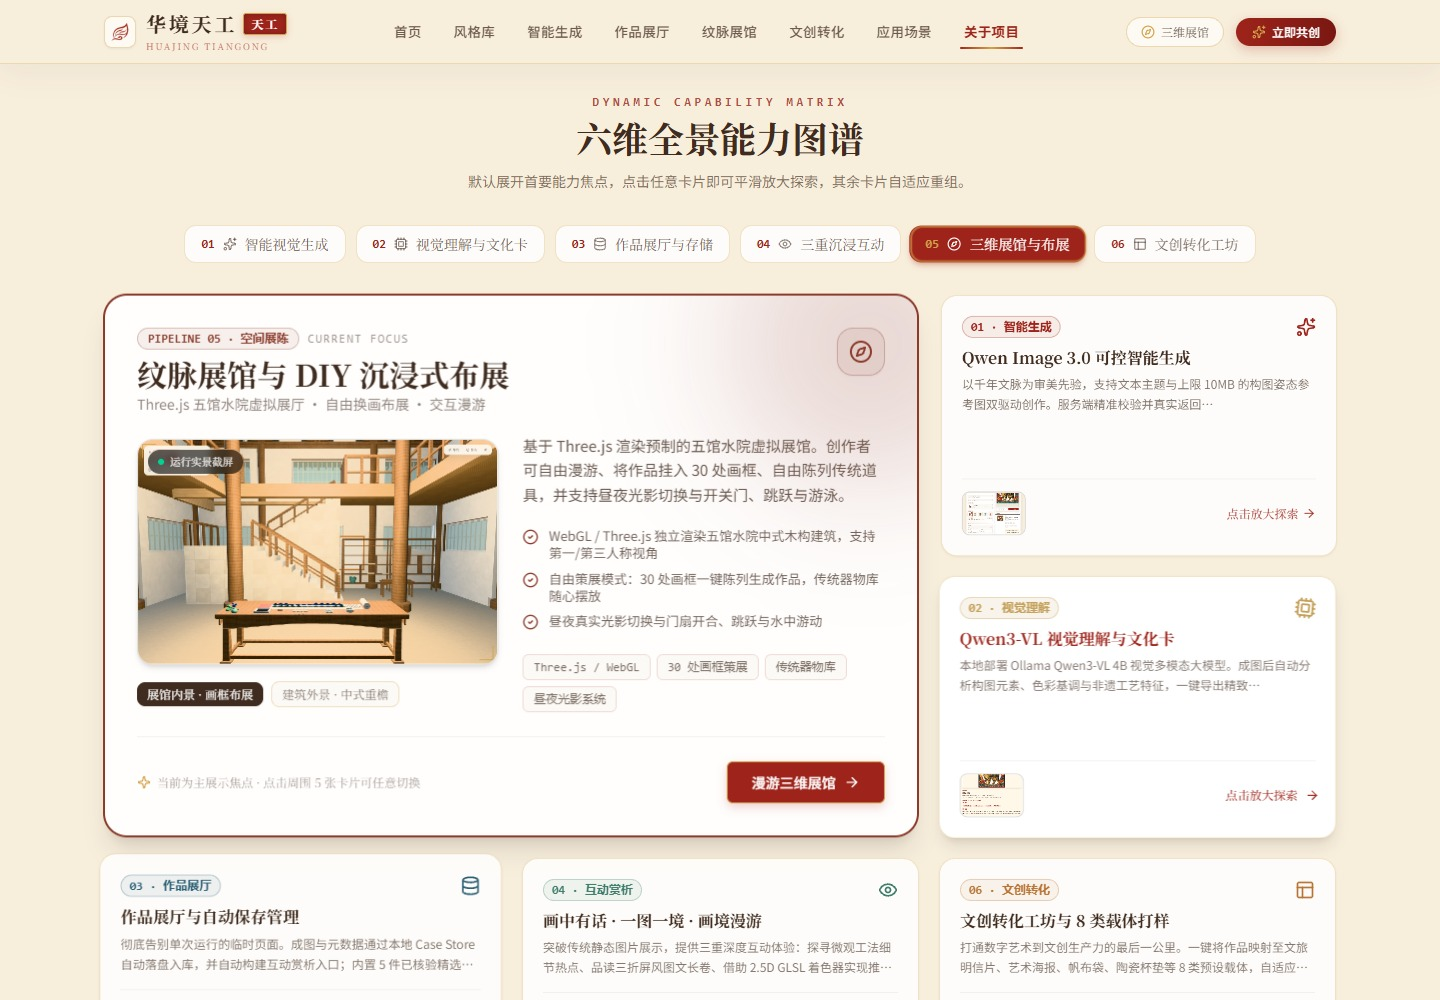
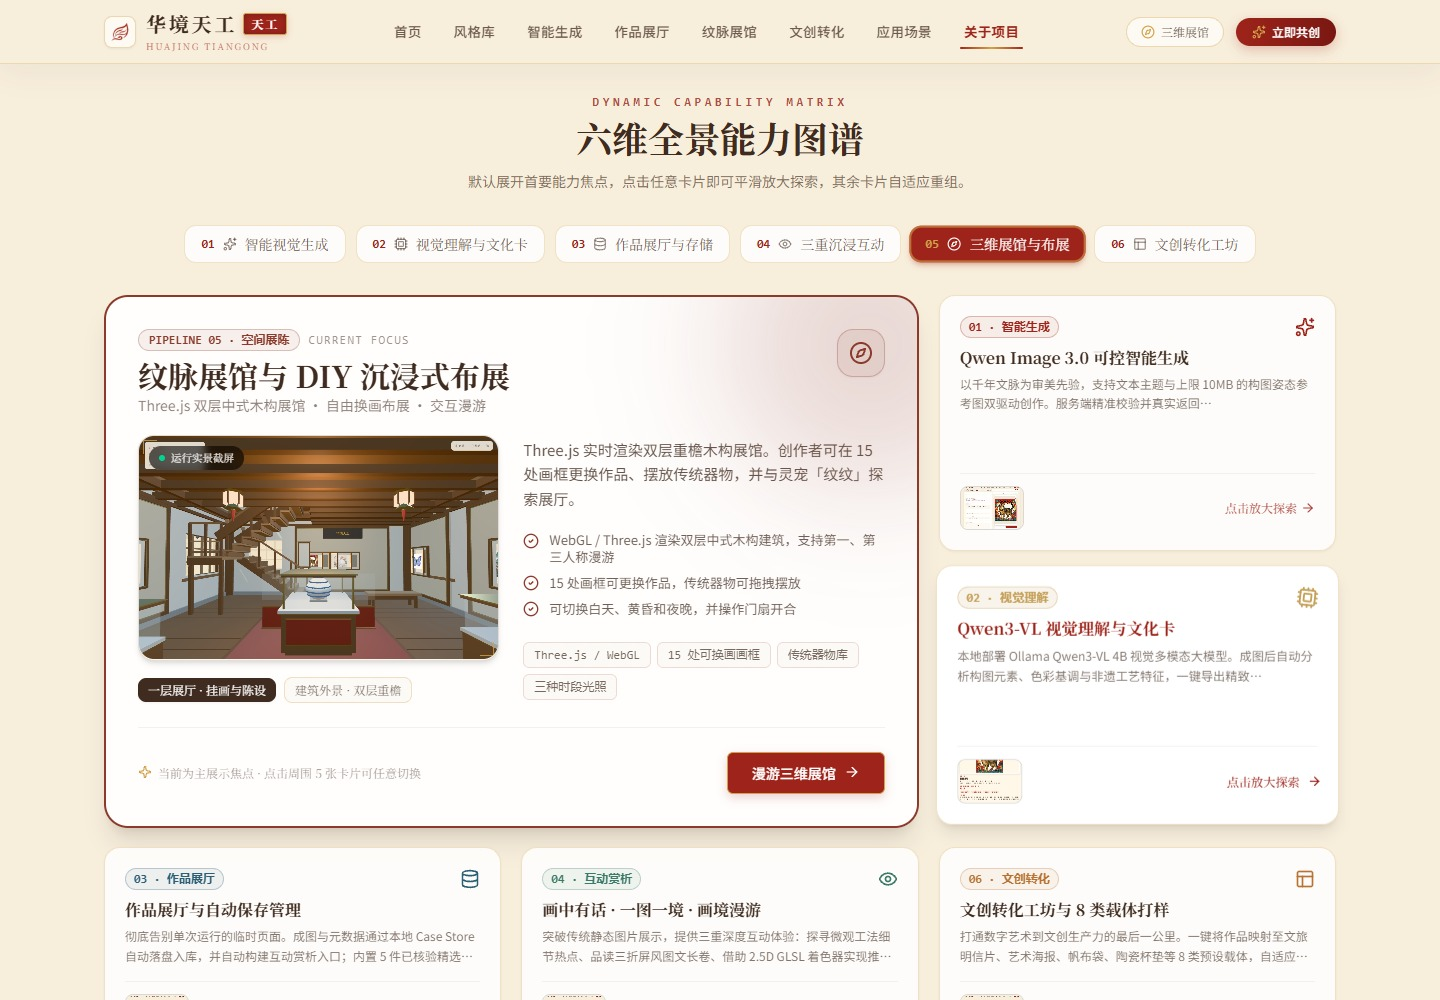
Align gallery previews and descriptions with competition v5

diff --git a/frontend/src/pages/Home.tsx b/frontend/src/pages/Home.tsx
@@ -75,8 +75,8 @@ const PLATFORM_PILLARS = [
   },
   {
     icon: Boxes,
-    title: '五馆水院三维展馆',
-    desc: 'Three.js 渲染古建水院空间，支持 30 处自定义策展换画与器物陈列。',
+    title: '双层中式纹脉展馆',
+    desc: 'Three.js 渲染双层重檐木构展馆，支持 15 处画框换画与传统器物陈设。',
     tag: '虚拟空间',
     to: '/heritage-gallery',
   },
@@ -411,14 +411,14 @@ export default function Home() {
             >
               <img
                 src={uiPreviews.heritageExterior}
-                alt="纹脉展馆建筑外观"
+                alt="纹脉展馆双层重檐木构建筑的白天外景"
                 className="w-full h-full object-cover transition-transform duration-700 group-hover:scale-[1.03]"
                 loading="lazy"
               />
               <div className="absolute inset-0 bg-gradient-to-t from-black/65 via-transparent to-transparent pointer-events-none" />
               <div className="absolute bottom-4 left-4 right-4 flex items-center justify-between text-white">
                 <span className="text-xs font-serif tracking-widest bg-black/45 backdrop-blur-md px-3 py-1 rounded border border-white/20">
-                  实景渲染 · 纹脉数字化艺术展馆
+                  界面实拍 · 纹脉展馆
                 </span>
                 <span className="text-xs opacity-90 font-mono hidden sm:inline">
                   Three.js 沉浸式三维漫游空间
@@ -442,17 +442,12 @@ export default function Home() {
                   whileHover={{ scale: 1.12, rotate: 2 }}
                   className="w-full h-full relative"
                 >
-                  <picture>
-                    <source
-                      type="image/webp"
-                      srcSet={import.meta.env.BASE_URL + "visuals/vnext/ui-img-02-heritage-pavilion.webp"}
-                    />
-                    <img
-                      src={import.meta.env.BASE_URL + "visuals/vnext/ui-img-02-heritage-pavilion.png"}
-                      alt="三维虚实交融玉璧楼阁展馆印徽"
-                      className="w-full h-full object-contain drop-shadow-[0_12px_28px_rgba(66,108,98,0.35)]"
-                    />
-                  </picture>
+                  <img
+                    src={uiPreviews.heritageExterior}
+                    alt="双层纹脉展馆入口预览"
+                    className="w-full h-full rounded-xl border border-gold/30 object-cover drop-shadow-[0_12px_28px_rgba(66,108,98,0.35)]"
+                    loading="lazy"
+                  />
                   <div className="absolute -bottom-1 left-1/2 -translate-x-1/2 bg-white/95 border border-emerald-700/30 shadow-xs px-2 py-0.5 rounded-full text-[9px] font-serif text-emerald-800 opacity-0 group-hover:opacity-100 transition-opacity whitespace-nowrap">
                     入馆漫游 →
                   </div>
@@ -472,17 +467,17 @@ export default function Home() {
               </div>
             </div>
             <p className="text-sm md:text-base text-ink/75 leading-relaxed mb-6 font-sans">
-              纹脉展馆是{projectBrand.name}的沉浸式三维文化展示空间。漫游水院中式古建、近距离赏析传统文化主题作品，并通过 30 处画框自由换画、器物陈设打造个人专属策展空间。
+              纹脉展馆是{projectBrand.name}的沉浸式三维文化展示空间。双层重檐木构建筑内设 15 处可换画画框，可陈设传统器物，也可与灵宠「纹纹」一起探索展厅。
             </p>
 
             <div className="grid grid-cols-2 gap-3 mb-8 text-xs text-ink/80 font-serif">
               <div className="flex items-center gap-2 p-2.5 rounded-lg bg-white/80 border border-gold/30">
                 <span className="w-1.5 h-1.5 rounded-full bg-gold" />
-                五馆水院古建格局
+                双层重檐中式展馆
               </div>
               <div className="flex items-center gap-2 p-2.5 rounded-lg bg-white/80 border border-gold/30">
                 <span className="w-1.5 h-1.5 rounded-full bg-gold" />
-                30 处自定义策展画框
+                15 处可换画画框
               </div>
               <div className="flex items-center gap-2 p-2.5 rounded-lg bg-white/80 border border-gold/30">
                 <span className="w-1.5 h-1.5 rounded-full bg-gold" />
@@ -490,7 +485,7 @@ export default function Home() {
               </div>
               <div className="flex items-center gap-2 p-2.5 rounded-lg bg-white/80 border border-gold/30">
                 <span className="w-1.5 h-1.5 rounded-full bg-gold" />
-                昼夜晨昏光影流转
+                白天、黄昏和夜晚
               </div>
             </div>
 

diff --git a/frontend/src/pages/About.tsx b/frontend/src/pages/About.tsx
@@ -65,7 +65,7 @@ interface CapabilityItem {
   accentBorder: string;
   icon: LucideIcon;
   previewNote: string;
-  subShots?: { label: string; img: string }[];
+  subShots?: { label: string; img: string; alt?: string }[];
 }
 
 const CAPABILITIES: CapabilityItem[] = [
@@ -185,17 +185,17 @@ const CAPABILITIES: CapabilityItem[] = [
     tag: '空间展陈',
     title: '纹脉展馆与 DIY 沉浸式布展',
     shortTitle: '三维展馆与布展',
-    subtitle: 'Three.js 五馆水院虚拟展厅 · 自由换画布展 · 交互漫游',
+    subtitle: 'Three.js 双层中式木构展馆 · 自由换画布展 · 交互漫游',
     summary:
-      '基于 Three.js 渲染预制的五馆水院虚拟展馆。创作者可自由漫游、将作品挂入 30 处画框、自由陈列传统道具，并支持昼夜光影切换与开关门、跳跃与游泳。',
+      'Three.js 实时渲染双层重檐木构展馆。创作者可在 15 处画框更换作品、摆放传统器物，并与灵宠「纹纹」探索展厅。',
     highlights: [
-      'WebGL / Three.js 独立渲染五馆水院中式木构建筑，支持第一/第三人称视角',
-      '自由策展模式：30 处画框一键陈列生成作品，传统器物库随心摆放',
-      '昼夜真实光影切换与门扇开合、跳跃与水中游动',
+      'WebGL / Three.js 渲染双层中式木构建筑，支持第一、第三人称漫游',
+      '15 处画框可更换作品，传统器物可拖拽摆放',
+      '可切换白天、黄昏和夜晚，并操作门扇开合',
     ],
-    badges: ['Three.js / WebGL', '30 处画框策展', '传统器物库', '昼夜光影系统'],
+    badges: ['Three.js / WebGL', '15 处可换画画框', '传统器物库', '三种时段光照'],
     image: heritageInterior,
-    alt: '纹脉展馆内景与布展模式',
+    alt: '纹脉展馆一层展厅的木梁、挂画、展柜和「华境天工」匾额',
     to: '/heritage-gallery',
     cta: '漫游三维展馆',
     accentColor: '#8B3A2B',
@@ -204,8 +204,12 @@ const CAPABILITIES: CapabilityItem[] = [
     icon: Compass,
     previewNote: '双层木构虚拟展馆',
     subShots: [
-      { label: '展馆内景 · 画框布展', img: heritageInterior },
-      { label: '建筑外景 · 中式重檐', img: heritageExterior },
+      { label: '一层展厅 · 挂画与陈设', img: heritageInterior },
+      {
+        label: '建筑外景 · 双层重檐',
+        img: heritageExterior,
+        alt: '纹脉展馆双层重檐木构建筑的白天外景',
+      },
     ],
   },
   {
@@ -421,7 +425,7 @@ const CAPABILITY_MATRIX: CapabilityRow[] = [
     feature: '两层三维虚拟展馆漫游与器物 DIY 布展',
     status: 'ready_offline',
     statusLabel: '已就绪 · 离线可用',
-    implementationDetail: 'Three.js 实体渲染，支持 30 个画框自由换画、传统器物拖拽摆放、昼夜光影切换与交互漫游。',
+    implementationDetail: 'Three.js 实时渲染双层中式木构展馆，支持 15 处画框换画、器物拖拽布展、三种时段光照和灵宠「纹纹」探索。',
   },
   {
     module: '文创转化',
@@ -456,6 +460,7 @@ export default function About() {
 
   // 当前主卡数据
   const activeCap = CAPABILITIES.find((c) => c.id === activeCapId) || CAPABILITIES[0];
+  const activeSubShot = activeCap.subShots?.find((shot) => shot.img === selectedSubShot);
   // 辅助卡片列表（保持自然序号排列，避免乱序）
   const auxiliaryCaps = CAPABILITIES.filter((c) => c.id !== activeCapId);
 
@@ -687,7 +692,7 @@ export default function About() {
                     <motion.img
                       layoutId={`card-img-${activeCap.id}`}
                       src={publicUrl(selectedSubShot || activeCap.image)}
-                      alt={activeCap.alt}
+                      alt={activeSubShot?.alt ?? activeCap.alt}
                       className={`w-full h-full ${
                         activeCap.id === 2 ? 'object-contain' : 'object-cover object-top'
                       } transition-transform duration-500 hover:scale-[1.03]`}

diff --git a/frontend/src/pages/Scenarios.tsx b/frontend/src/pages/Scenarios.tsx
@@ -20,6 +20,8 @@ import { LiveCreatorSandbox } from '../components/scenarios/LiveCreatorSandbox';
 import { CultureCardDeck } from '../components/scenarios/CultureCardDeck';
 
 const {
+  heritageExterior,
+  heritageDusk,
   experience: experienceShot,
   story: storyShot,
   paintingWorld: wanderShot,
@@ -62,37 +64,37 @@ const SCENARIOS: Scenario[] = [
     icon: MonitorPlay,
     tag: '空间展陈',
     title: '三维数字展馆与空间展陈',
-    subtitle: 'SPATIAL EXHIBITION · 虚拟水院与环幕映射',
+    subtitle: 'SPATIAL EXHIBITION · 双层纹脉展馆与环幕展陈构想',
     summary:
-      '构筑可自由漫游、虚实布展的五馆水院中式虚拟美术馆。支持第一/第三人称自由穿行与昼夜光影流转，开放 30 处画框支持一键策展换画，让典藏艺术从展柜走向三维时空。',
+      '纹脉展馆以双层重檐木构建筑呈现。观众可切换第一、第三人称视角，体验白天、黄昏和夜晚的光影，使用 15 处画框换画和传统器物布展。',
     badges: [
-      { label: 'Three.js 沉浸式三维渲染', detail: '中式水院木构梁架昼夜晨昏光影' },
-      { label: '30 处画框自由布展', detail: '从器物展柜到立轴画框随心策展' },
-      { label: '沉浸环幕空间映射', detail: '适配大型曲面大屏与数字展厅构想' },
+      { label: 'Three.js 沉浸式三维渲染', detail: '双层重檐木构建筑与三种时段光照' },
+      { label: '15 处画框自由布展', detail: '更换展出作品并摆放传统器物' },
+      { label: '沉浸环幕展陈构想', detail: '大型曲面大屏与数字展厅概念展示' },
     ],
     to: '/heritage-gallery',
     cta: '漫游三维展馆',
     tabs: [
       {
-        id: 'screen-concept',
-        label: '数字环幕沉浸空间',
-        shot: import.meta.env.BASE_URL + 'scenarios/museum-screen-concept.jpg',
-        alt: '现代顶级美术馆沉浸式数字艺术展厅全景（宋画青绿山水）',
-        badge: '曲面大屏空间展陈构想',
+        id: '3d-gallery',
+        label: '3D 展馆白天外景',
+        shot: heritageExterior,
+        alt: '纹脉展馆双层重檐木构建筑的白天外景',
+        badge: '展馆白天界面实拍',
       },
       {
         id: '3d-dusk',
-        label: '3D 展馆暮色水院',
-        shot: import.meta.env.BASE_URL + 'scenarios/heritage-dusk.jpg',
-        alt: '纹脉展馆暮色光影：五馆水院倒影与中式暖阳夜景',
-        badge: 'Three.js 暮色光影实景',
+        label: '3D 展馆黄昏外景',
+        shot: heritageDusk,
+        alt: '纹脉展馆双层重檐木构建筑的黄昏外景',
+        badge: '展馆黄昏界面实拍',
       },
       {
-        id: '3d-gallery',
-        label: '3D 展馆全景昼光',
-        shot: import.meta.env.BASE_URL + 'scenarios/heritage-gallery.jpg',
-        alt: '纹脉展馆外景：湖畔水院与中式大木梁架建筑全景',
-        badge: '昼光水院建筑全景',
+        id: 'screen-concept',
+        label: '数字环幕展陈构想',
+        shot: import.meta.env.BASE_URL + 'scenarios/museum-screen-concept.jpg',
+        alt: '宋画青绿山水的曲面环幕展陈概念图',
+        badge: '曲面大屏空间展陈构想',
       },
     ],
   },
@@ -243,7 +245,6 @@ const SCENARIOS: Scenario[] = [
 export default function Scenarios() {
   const shouldReduceMotion = useReducedMotion();
   const [activeTabs, setActiveTabs] = useState<Record<string, string>>({
-    'museum-exhibition': 'screen-concept',
     'creative-products': 'box-concept',
     'interactive-guide': 'hotspot-view',
     'social-dissemination': 'mobile-sky',

diff --git a/frontend/src/data/uiPreviews.ts b/frontend/src/data/uiPreviews.ts
@@ -1,8 +1,11 @@
 import { projectBrand } from './projectBrand';
+import heritageExterior from '../../../docs/screenshots/current/heritage-gallery.jpg';
+import heritageInterior from '../../../docs/screenshots/current/heritage-interior.jpg';
+import heritageDusk from '../../../docs/screenshots/current/heritage-dusk.jpg';
 import paintingWorld from '../../../docs/screenshots/current/painting-world.jpg';
 
 const previews = import.meta.glob<string>(
-  '../../../docs/screenshots/{current,competition}/{creation-workspace,creative-products,culture-card,gallery,heritage-gallery,heritage-interior,interactive-artwork,story-reading}.jpg',
+  '../../../docs/screenshots/{current,competition}/{creation-workspace,creative-products,culture-card,gallery,interactive-artwork,story-reading}.jpg',
   { eager: true, import: 'default' },
 );
 const folder = `../../../docs/screenshots/${projectBrand.previewFolder}`;
@@ -12,8 +15,9 @@ export const uiPreviews = {
   products: previews[`${folder}/creative-products.jpg`],
   cultureCard: previews[`${folder}/culture-card.jpg`],
   gallery: previews[`${folder}/gallery.jpg`],
-  heritageExterior: previews[`${folder}/heritage-gallery.jpg`],
-  heritageInterior: previews[`${folder}/heritage-interior.jpg`],
+  heritageExterior,
+  heritageInterior,
+  heritageDusk,
   experience: previews[`${folder}/interactive-artwork.jpg`],
   story: previews[`${folder}/story-reading.jpg`],
   paintingWorld,

diff --git a/docs/screenshots/current/README.md b/docs/screenshots/current/README.md
@@ -11,7 +11,7 @@
 | 截图文件 | 对应路由 / 页面模块 | 实际像素 | 界面功能与视觉设计说明 |
 |---|---|---|---|
 | [home-overview.jpg](home-overview.jpg) | `/`（首页首屏） | 1440×1000 | 华境天工主标题、项目副标题、五种传统视觉风格与创作入口。 |
-| [home-gallery.jpg](home-gallery.jpg) | `/`（首页展馆区块） | 1440×1000 | 首页展馆入口的既有界面记录。国赛展馆实景见下方 `/heritage-gallery` 截图。 |
+| [home-gallery.jpg](home-gallery.jpg) | `/`（首页展馆区块） | 1440×1000 | v5 双层纹脉展馆的外观预览与漫游入口。 |
 | [culture-styles.jpg](culture-styles.jpg) | `/styles`（风格库） | 1440×1000 | **五大传统文化视觉风格库**：Refero 灵感画廊美学卡片，外露设色谱系圆点、门类签条筛选栏与一键创作入口。 |
 | [style-inspect-modal.jpg](style-inspect-modal.jpg) | `/styles`（风格考据弹窗） | 1440×1000 | **风格文化基因考据抽屉**：点击风格「考据」展开，解构设色哲学、构图法则、Qwen Image 结构化 Prompt 与文化源流象征。 |
 | [creation-workspace.jpg](creation-workspace.jpg) | `/creator`（智能生成） | 1440×1000 | 工作台载入已保存作品，展示生成主题、风格参数、成图和文化说明。 |
@@ -19,10 +19,10 @@
 | [gallery-archive-modal.jpg](gallery-archive-modal.jpg) | `/gallery`（作品归档机制） | 1440×1000 | **数字典藏与数据完整性机制弹窗**：点击金石印匣展开，真实展示 SHA-256 完整性摘要与 Case Store 本地持久化归档说明。 |
 | [creative-products.jpg](creative-products.jpg) | `/products`（文创工坊） | 1440×1000 | 明信片、帆布袋等八类文创载体预览，可导出 1600×1200 PNG。 |
 | [product-vessel-modal.jpg](product-vessel-modal.jpg) | `/products`（器物展陈弹窗） | 1440×1000 | **东方器物灵感 · 天青贯耳尊解构弹窗**：点击贯耳尊展开，详细解构器形制式、掐丝龙纹工艺与概念美学定位。 |
-| [scenarios.jpg](scenarios.jpg) | `/scenarios`（多维应用场景） | 1440×1000 | **多维应用场景长卷**：杂志化图文交错排版，Scrolltide 级场景快速导览条与 3D 鼠标透视倾侧互动沙盒。 |
+| [scenarios.jpg](scenarios.jpg) | `/scenarios`（多维应用场景） | 1440×1000 | 空间展陈区默认展示 v5 双层纹脉展馆日景，可切换至黄昏预览或环幕展陈概念图。 |
 | [about.jpg](about.jpg) | `/about`（关于项目） | 1440×1000 | **技术架构与定位**：六大核心技术体系、真实多模态推理证据链、宣纸装裱文化卡展陈与古风印章落款。 |
 | [about-architecture.jpg](about-architecture.jpg) | `/about`（技术架构） | 1440×1000 | 前端交互、生成服务和本地模型的技术分层。 |
-| [about-gallery-capability.jpg](about-gallery-capability.jpg) | `/about`（展馆能力） | 1440×1000 | 关于页展馆能力卡片的既有界面记录。 |
+| [about-gallery-capability.jpg](about-gallery-capability.jpg) | `/about`（展馆能力） | 1440×1000 | v5 双层展馆预览、15 处可换画画框与器物布展能力。 |
 | [mobile-home.jpg](mobile-home.jpg) | `/`（移动端 390×844 视口） | 780×1688 | 窄屏下的项目标题、导航菜单和创作入口。 |
 | [culture-card.jpg](culture-card.jpg) | `/gallery`（文化说明卡） | 1080×1440 | **纯净版 CultureCard 说明卡**：木版年画文化解读卡，涵盖版刻设色、矿物颜料谱系、工艺要点与古籍考证印章。 |
 | [interactive-artwork.jpg](interactive-artwork.jpg) | `/experience/zhuxianzhen-ruimao` | 1440×1000 | **画中有话 · 微观热点探索**：年画原作微观脉冲热点（额顶云冠、金鲤墨线、矿物设色），即时滑出文化解读面板。 |

diff --git a/README.md b/README.md
@@ -76,7 +76,7 @@ flowchart LR
 |:---:|:---:|
 | [![双层纹脉展馆外观](docs/screenshots/current/heritage-gallery.jpg)](docs/screenshots/current/heritage-gallery.jpg) | [![纹脉展馆布展模式与器物图库](docs/screenshots/current/heritage-diy.jpg)](docs/screenshots/current/heritage-diy.jpg) |
 
-后续恢复五馆水院 v15 时，可以在 Git 中使用 `git revert` 撤销本次国赛展馆回退提交。回退前的基准是 [`5268531`](https://github.com/3331083641-prog/wenmai-huazhang/commit/52685310061a5c5989e01cca9255b2a6e3b8d27d)。[v15 集成与验收记录](docs/pavilion-v15-integration.md)
+恢复五馆水院 v15 时，先用 `git revert` 撤销标题为 `Align gallery previews and descriptions with competition v5` 的导览图与文案更新提交，再撤销启用国赛展馆的提交 `1bc0284`。恢复基准为 `5268531`。[v15 集成与验收记录](docs/pavilion-v15-integration.md) · [恢复基准](https://github.com/3331083641-prog/wenmai-huazhang/commit/52685310061a5c5989e01cca9255b2a6e3b8d27d)
 
 ### 从作品到文创预览
 
@@ -89,9 +89,9 @@ flowchart LR
 <details>
 <summary>六组应用场景与六大动态能力矩阵</summary>
 
-| 应用场景（环幕沉浸空间与动效优化） | 关于项目（Qwen3-VL 视觉理解与纯净文化卡） |
+| 应用场景（纹脉展馆日景与空间展陈） | 关于项目（Qwen3-VL 视觉理解与纯净文化卡） |
 |:---:|:---:|
-| [![六组场景中的展陈板块](docs/screenshots/current/scenarios.jpg)](docs/screenshots/current/scenarios.jpg) | [![关于项目与工程链路](docs/screenshots/current/about.jpg)](docs/screenshots/current/about.jpg) |
+| [![空间展陈板块中的 v5 双层纹脉展馆](docs/screenshots/current/scenarios.jpg)](docs/screenshots/current/scenarios.jpg) | [![关于项目与工程链路](docs/screenshots/current/about.jpg)](docs/screenshots/current/about.jpg) |
 
 应用场景包括数字展馆、美育研学、文创器物、创作工坊、互动导览和线上传播。场景页部分配图是 AI 概念素材，表示应用构想，不是已部署的实体场馆或商品照片。界面排版与动态交互继续沿用 Antigravity 成果。
 
